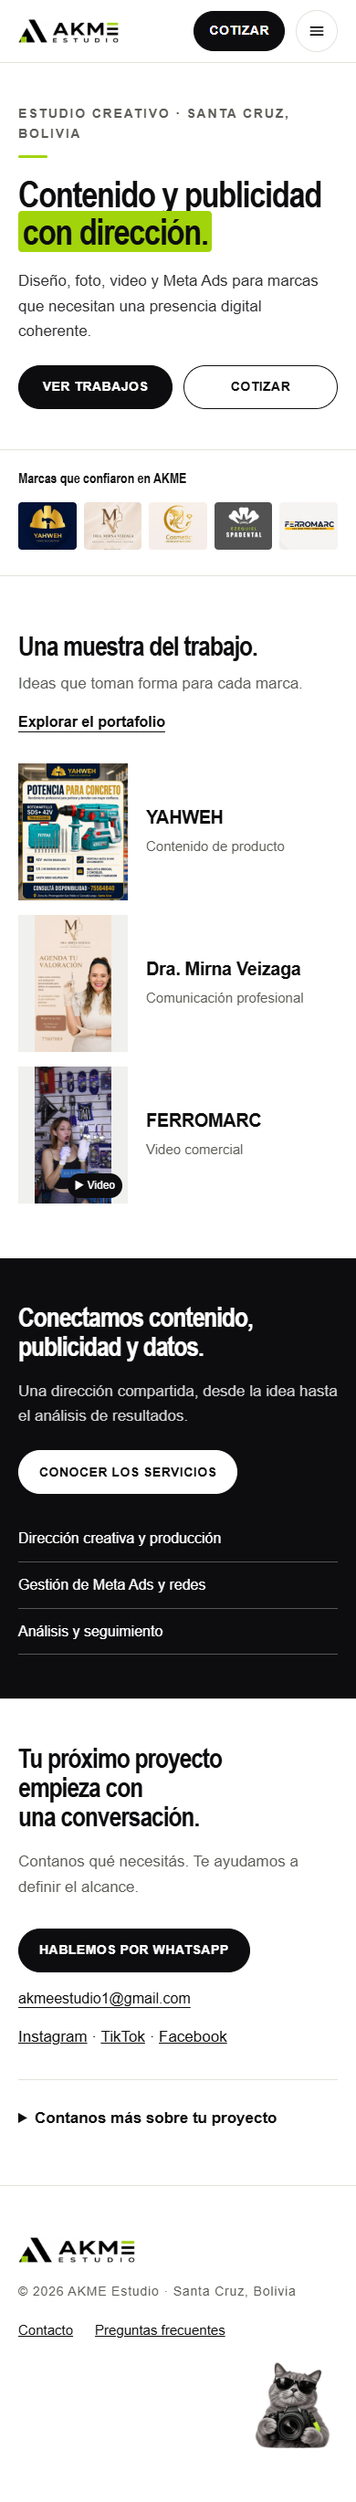
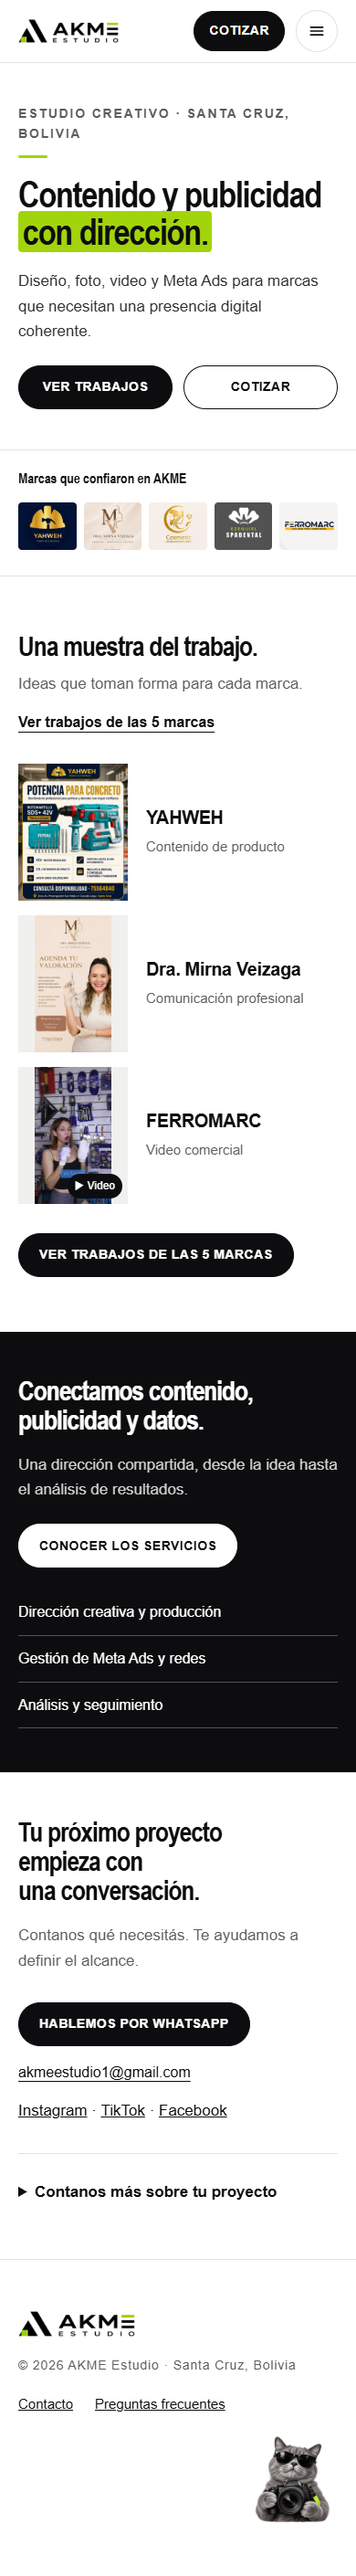
Aclara acceso y regreso del portafolio en móvil

diff --git a/akme/portafolio.html b/akme/portafolio.html
@@ -1,1 +1,1 @@
-<!doctype html><html lang="es"><head><meta charset="utf-8"><meta name="viewport" content="width=device-width, initial-scale=1"><title>Portafolio · AKME Estudio</title><meta name="description" content="Galerías de trabajos de YAHWEH, Dra. Mirna Veizaga, Cosmetic, Ezequiel SpaDental y FERROMARC."><meta name="theme-color" content="#ffffff"><meta property="og:title" content="Portafolio · AKME Estudio"><meta property="og:description" content="Galerías de trabajos de YAHWEH, Dra. Mirna Veizaga, Cosmetic, Ezequiel SpaDental y FERROMARC."><meta property="og:type" content="website"><link rel="icon" href="assets/isotipo.png"><link rel="preconnect" href="https://fonts.googleapis.com"><link rel="preconnect" href="https://fonts.gstatic.com" crossorigin><link rel="stylesheet" href="https://fonts.googleapis.com/css2?family=Archivo:ital,wdth,wght@0,62..125,100..900;1,62..125,100..900&family=Instrument+Serif:ital@1&display=swap"><link rel="stylesheet" href="base.css"><link rel="stylesheet" href="editorial.css"></head><body data-page="portafolio" class=""><a class="skip" href="#contenido">Saltar al contenido</a><header class="top"><div class="wrap"><a class="brand" href="index.html" aria-label="AKME Estudio, inicio"><img src="assets/logo.png" alt="AKME Estudio" width="700" height="165"></a><nav class="nav" aria-label="Navegación principal"><a class="link" href="index.html" >Inicio</a><a class="link" href="portafolio.html" aria-current="page">Portafolio</a><a class="link" href="servicios.html" >Servicios</a><a class="btn" href="planes.html#cotizador" >Cotizar</a><button class="menu-btn" id="menu-btn" type="button" aria-expanded="false" aria-controls="menu-panel" aria-label="Abrir menú"><svg class="bars" viewBox="0 0 24 24" aria-hidden="true"><path d="M4 7h16M4 12h16M4 17h16"/></svg><svg class="x" viewBox="0 0 24 24" aria-hidden="true"><path d="M6 6l12 12M18 6L6 18"/></svg></button></nav></div><div class="menu-panel" id="menu-panel"><ul><li><a href="index.html">Inicio</a></li><li><a href="portafolio.html">Portafolio</a></li><li><a href="servicios.html">Servicios</a></li><li><a href="planes.html#paquetes">Planes</a></li><li><a href="planes.html#cotizador">Cotizar</a></li><li><a href="servicios.html#faq">Preguntas frecuentes</a></li><li><a href="index.html#contacto">Contacto</a></li></ul></div></header><main id="contenido"><section class="page-intro"><div class="wrap"><p class="eyebrow">Portafolio de clientes</p><h1>Cada marca,<br>su propia dirección.</h1><p>Trabajos de producto, comunicación profesional y campañas en imagen y video.</p><nav class="brand-jumps" aria-label="Marcas del portafolio"><a href="#proyecto-yahweh">YAHWEH</a><a href="#proyecto-mirna">Dra. Mirna Veizaga</a><a href="#proyecto-cosmetic">Cosmetic Dental and Face Center</a><a href="#proyecto-spadental">Ezequiel SpaDental</a><a href="#proyecto-ferromarc">FERROMARC</a></nav></div></section><div class="wrap"><div id="brand-galleries"><p class="gallery-loading">Cargando trabajos…</p></div><noscript><p>Activá JavaScript para explorar las galerías. <a href="index.html#contacto">Contactanos</a> para conocer los proyectos.</p></noscript><section class="own-collection" aria-labelledby="own-title"><div class="own-head"><h3 id="own-title">Dentro de AKME</h3><p>Piezas de comunicación del estudio.</p></div><div class="own-grid"><article class="own-piece"><button type="button" data-own-images="assets/te-vigila.jpg" data-title="¿Tu competencia te vigila?" aria-label="Ampliar ¿Tu competencia te vigila?"><picture><source type="image/webp" srcset="assets/te-vigila.webp"><img src="assets/te-vigila.jpg" width="900" height="900" loading="lazy" decoding="async" alt="Arte: ¿Tu competencia te vigila? con un gato y una lupa"></picture></button><h4>¿Tu competencia te vigila?</h4></article><article class="own-piece"><button type="button" data-own-images="assets/conectar.jpg" data-title="Dejá de publicar por publicar" aria-label="Ampliar Dejá de publicar por publicar"><picture><source type="image/webp" srcset="assets/conectar.webp"><img src="assets/conectar.jpg" width="900" height="900" loading="lazy" decoding="async" alt="Arte: Dejá de publicar por publicar, empezá a crear para conectar"></picture></button><h4>Dejá de publicar por publicar</h4></article><article class="own-piece"><button type="button" data-own-images="assets/ayudarte.jpg" data-title="¿Cómo podemos ayudarte?" aria-label="Ampliar ¿Cómo podemos ayudarte?"><picture><source type="image/webp" srcset="assets/ayudarte.webp"><img src="assets/ayudarte.jpg" width="900" height="1125" loading="lazy" decoding="async" alt="Arte: ¿Cómo podemos ayudarte? con un teléfono vintage negro"></picture></button><h4>¿Cómo podemos ayudarte?</h4></article></div><details class="own-more"><summary>Ver más piezas de AKME</summary><div class="own-grid"><article class="own-piece"><button type="button" data-own-images="assets/paquetes-1.jpg,assets/paquetes-2.jpg,assets/paquetes-3.jpg,assets/paquetes-4.jpg,assets/paquetes-5.jpg,assets/paquetes-6.jpg,assets/paquetes-7.jpg" data-title="Catálogo de paquetes 2026" aria-label="Ampliar Catálogo de paquetes 2026"><picture><source type="image/webp" srcset="assets/paquetes-6.webp"><img src="assets/paquetes-6.jpg" width="900" height="1125" loading="lazy" decoding="async" alt="Pieza del Paquete PRO con laptop, celular y cámara Canon"></picture></button><h4>Catálogo de paquetes 2026</h4></article><article class="own-piece"><button type="button" data-own-images="assets/vende.jpg" data-title="Lo visual también marca la diferencia" aria-label="Ampliar Lo visual también marca la diferencia"><picture><source type="image/webp" srcset="assets/vende.webp"><img src="assets/vende.jpg" width="900" height="900" loading="lazy" decoding="async" alt="Collage editorial en blanco y negro de una fotógrafa con cámara Canon y la palabra VENDE"></picture></button><h4>Lo visual también marca la diferencia</h4></article><article class="own-piece"><button type="button" data-own-images="assets/contacto.jpg" data-title="Tarjeta de contacto" aria-label="Ampliar Tarjeta de contacto"><picture><source type="image/webp" srcset="assets/contacto.webp"><img src="assets/contacto.jpg" width="900" height="1125" loading="lazy" decoding="async" alt="Tarjeta de contacto de AKME en versión negativa con laptop y taza"></picture></button><h4>Tarjeta de contacto</h4></article></div></details></section></div><section class="page-contact" aria-label="Contacto"><div class="wrap"><div><h2>Hablemos de tu marca.</h2><p>Contanos qué necesitás y revisamos el alcance.</p></div><a class="btn" href="https://wa.me/59157385254" data-wa="Hola AKME, quiero conversar sobre mi marca.">Conversar por WhatsApp</a></div></section></main><footer class="foot"><div class="wrap"><a href="index.html" aria-label="Inicio AKME"><img src="assets/logo.png" alt="AKME Estudio" width="700" height="165" loading="lazy"></a><small>© 2026 AKME Estudio · Santa Cruz, Bolivia</small><img class="studio-cat" src="assets/akme-cat.webp" width="120" height="120" alt="" loading="lazy" decoding="async"><a href="index.html#contacto">Contacto</a><a href="servicios.html#faq">Preguntas frecuentes</a></div></footer><script src="site.js" defer></script><dialog class="gallery-viewer" id="gallery-viewer" aria-labelledby="gallery-title"><div class="gallery-toolbar"><h2 id="gallery-title"></h2><button type="button" class="gallery-close" aria-label="Cerrar galería">×</button></div><div class="gallery-media" id="gallery-media"></div><div class="gallery-bottomline"><p id="gallery-description"></p><div class="gallery-nav"><button type="button" id="gallery-prev" aria-label="Pieza anterior">‹</button><span id="gallery-count" aria-live="polite"></span><button type="button" id="gallery-next" aria-label="Pieza siguiente">›</button></div></div><div class="gallery-thumbs" id="gallery-thumbs" aria-label="Seleccionar pieza"></div></dialog><script type="module" src="galeria.mjs"></script></body></html>
+<!doctype html><html lang="es"><head><meta charset="utf-8"><meta name="viewport" content="width=device-width, initial-scale=1"><title>Portafolio · AKME Estudio</title><meta name="description" content="Galerías de trabajos de YAHWEH, Dra. Mirna Veizaga, Cosmetic, Ezequiel SpaDental y FERROMARC."><meta name="theme-color" content="#ffffff"><meta property="og:title" content="Portafolio · AKME Estudio"><meta property="og:description" content="Galerías de trabajos de YAHWEH, Dra. Mirna Veizaga, Cosmetic, Ezequiel SpaDental y FERROMARC."><meta property="og:type" content="website"><link rel="icon" href="assets/isotipo.png"><link rel="preconnect" href="https://fonts.googleapis.com"><link rel="preconnect" href="https://fonts.gstatic.com" crossorigin><link rel="stylesheet" href="https://fonts.googleapis.com/css2?family=Archivo:ital,wdth,wght@0,62..125,100..900;1,62..125,100..900&family=Instrument+Serif:ital@1&display=swap"><link rel="stylesheet" href="base.css"><link rel="stylesheet" href="editorial.css"></head><body data-page="portafolio" class=""><a class="skip" href="#contenido">Saltar al contenido</a><header class="top"><div class="wrap"><a class="brand" href="index.html" aria-label="AKME Estudio, inicio"><img src="assets/logo.png" alt="AKME Estudio" width="700" height="165"></a><nav class="nav" aria-label="Navegación principal"><a class="link" href="index.html" >Inicio</a><a class="link" href="portafolio.html" aria-current="page">Portafolio</a><a class="link" href="servicios.html" >Servicios</a><a class="btn" href="planes.html#cotizador" >Cotizar</a><button class="menu-btn" id="menu-btn" type="button" aria-expanded="false" aria-controls="menu-panel" aria-label="Abrir menú"><svg class="bars" viewBox="0 0 24 24" aria-hidden="true"><path d="M4 7h16M4 12h16M4 17h16"/></svg><svg class="x" viewBox="0 0 24 24" aria-hidden="true"><path d="M6 6l12 12M18 6L6 18"/></svg></button></nav></div><div class="menu-panel" id="menu-panel"><ul><li><a href="index.html">Inicio</a></li><li><a href="portafolio.html">Portafolio</a></li><li><a href="servicios.html">Servicios</a></li><li><a href="planes.html#paquetes">Planes</a></li><li><a href="planes.html#cotizador">Cotizar</a></li><li><a href="servicios.html#faq">Preguntas frecuentes</a></li><li><a href="index.html#contacto">Contacto</a></li></ul></div></header><main id="contenido"><div class="wrap portfolio-return"><a class="text-link" href="index.html">← Volver al inicio</a></div><section class="page-intro"><div class="wrap"><p class="eyebrow">Portafolio de clientes</p><h1>Cada marca,<br>su propia dirección.</h1><p>Trabajos de producto, comunicación profesional y campañas en imagen y video.</p><nav class="brand-jumps" aria-label="Marcas del portafolio"><a href="#proyecto-yahweh">YAHWEH</a><a href="#proyecto-mirna">Dra. Mirna Veizaga</a><a href="#proyecto-cosmetic">Cosmetic Dental and Face Center</a><a href="#proyecto-spadental">Ezequiel SpaDental</a><a href="#proyecto-ferromarc">FERROMARC</a></nav></div></section><div class="wrap"><div id="brand-galleries"><p class="gallery-loading">Cargando trabajos…</p></div><noscript><p>Activá JavaScript para explorar las galerías. <a href="index.html#contacto">Contactanos</a> para conocer los proyectos.</p></noscript><section class="own-collection" aria-labelledby="own-title"><div class="own-head"><h3 id="own-title">Dentro de AKME</h3><p>Piezas de comunicación del estudio.</p></div><div class="own-grid"><article class="own-piece"><button type="button" data-own-images="assets/te-vigila.jpg" data-title="¿Tu competencia te vigila?" aria-label="Ampliar ¿Tu competencia te vigila?"><picture><source type="image/webp" srcset="assets/te-vigila.webp"><img src="assets/te-vigila.jpg" width="900" height="900" loading="lazy" decoding="async" alt="Arte: ¿Tu competencia te vigila? con un gato y una lupa"></picture></button><h4>¿Tu competencia te vigila?</h4></article><article class="own-piece"><button type="button" data-own-images="assets/conectar.jpg" data-title="Dejá de publicar por publicar" aria-label="Ampliar Dejá de publicar por publicar"><picture><source type="image/webp" srcset="assets/conectar.webp"><img src="assets/conectar.jpg" width="900" height="900" loading="lazy" decoding="async" alt="Arte: Dejá de publicar por publicar, empezá a crear para conectar"></picture></button><h4>Dejá de publicar por publicar</h4></article><article class="own-piece"><button type="button" data-own-images="assets/ayudarte.jpg" data-title="¿Cómo podemos ayudarte?" aria-label="Ampliar ¿Cómo podemos ayudarte?"><picture><source type="image/webp" srcset="assets/ayudarte.webp"><img src="assets/ayudarte.jpg" width="900" height="1125" loading="lazy" decoding="async" alt="Arte: ¿Cómo podemos ayudarte? con un teléfono vintage negro"></picture></button><h4>¿Cómo podemos ayudarte?</h4></article></div><details class="own-more"><summary>Ver más piezas de AKME</summary><div class="own-grid"><article class="own-piece"><button type="button" data-own-images="assets/paquetes-1.jpg,assets/paquetes-2.jpg,assets/paquetes-3.jpg,assets/paquetes-4.jpg,assets/paquetes-5.jpg,assets/paquetes-6.jpg,assets/paquetes-7.jpg" data-title="Catálogo de paquetes 2026" aria-label="Ampliar Catálogo de paquetes 2026"><picture><source type="image/webp" srcset="assets/paquetes-6.webp"><img src="assets/paquetes-6.jpg" width="900" height="1125" loading="lazy" decoding="async" alt="Pieza del Paquete PRO con laptop, celular y cámara Canon"></picture></button><h4>Catálogo de paquetes 2026</h4></article><article class="own-piece"><button type="button" data-own-images="assets/vende.jpg" data-title="Lo visual también marca la diferencia" aria-label="Ampliar Lo visual también marca la diferencia"><picture><source type="image/webp" srcset="assets/vende.webp"><img src="assets/vende.jpg" width="900" height="900" loading="lazy" decoding="async" alt="Collage editorial en blanco y negro de una fotógrafa con cámara Canon y la palabra VENDE"></picture></button><h4>Lo visual también marca la diferencia</h4></article><article class="own-piece"><button type="button" data-own-images="assets/contacto.jpg" data-title="Tarjeta de contacto" aria-label="Ampliar Tarjeta de contacto"><picture><source type="image/webp" srcset="assets/contacto.webp"><img src="assets/contacto.jpg" width="900" height="1125" loading="lazy" decoding="async" alt="Tarjeta de contacto de AKME en versión negativa con laptop y taza"></picture></button><h4>Tarjeta de contacto</h4></article></div></details></section></div><section class="page-contact" aria-label="Contacto"><div class="wrap"><div><h2>Hablemos de tu marca.</h2><p>Contanos qué necesitás y revisamos el alcance.</p></div><a class="btn" href="https://wa.me/59157385254" data-wa="Hola AKME, quiero conversar sobre mi marca.">Conversar por WhatsApp</a></div></section></main><footer class="foot"><div class="wrap"><a href="index.html" aria-label="Inicio AKME"><img src="assets/logo.png" alt="AKME Estudio" width="700" height="165" loading="lazy"></a><small>© 2026 AKME Estudio · Santa Cruz, Bolivia</small><img class="studio-cat" src="assets/akme-cat.webp" width="120" height="120" alt="" loading="lazy" decoding="async"><a href="index.html#contacto">Contacto</a><a href="servicios.html#faq">Preguntas frecuentes</a></div></footer><script src="site.js" defer></script><dialog class="gallery-viewer" id="gallery-viewer" aria-labelledby="gallery-title"><div class="gallery-toolbar"><h2 id="gallery-title"></h2><button type="button" class="gallery-close" aria-label="Cerrar galería">Cerrar <span aria-hidden="true">×</span></button></div><div class="gallery-media" id="gallery-media"></div><div class="gallery-bottomline"><p id="gallery-description"></p><div class="gallery-nav"><button type="button" id="gallery-prev" aria-label="Pieza anterior">‹</button><span id="gallery-count" aria-live="polite"></span><button type="button" id="gallery-next" aria-label="Pieza siguiente">›</button></div></div><div class="gallery-thumbs" id="gallery-thumbs" aria-label="Seleccionar pieza"></div></dialog><script type="module" src="galeria.mjs"></script></body></html>

diff --git a/akme/index.html b/akme/index.html
@@ -1,4 +1,4 @@
-<!doctype html><html lang="es"><head><meta charset="utf-8"><meta name="viewport" content="width=device-width, initial-scale=1"><title>AKME Estudio · Contenido, publicidad y dirección</title><meta name="description" content="Diseño, foto, video y Meta Ads para marcas desde Santa Cruz, Bolivia."><meta name="theme-color" content="#ffffff"><meta property="og:title" content="AKME Estudio · Contenido, publicidad y dirección"><meta property="og:description" content="Diseño, foto, video y Meta Ads para marcas desde Santa Cruz, Bolivia."><meta property="og:type" content="website"><link rel="icon" href="assets/isotipo.png"><link rel="preconnect" href="https://fonts.googleapis.com"><link rel="preconnect" href="https://fonts.gstatic.com" crossorigin><link rel="stylesheet" href="https://fonts.googleapis.com/css2?family=Archivo:ital,wdth,wght@0,62..125,100..900;1,62..125,100..900&family=Instrument+Serif:ital@1&display=swap"><link rel="stylesheet" href="base.css"><link rel="stylesheet" href="editorial.css"></head><body data-page="inicio" class=""><a class="skip" href="#contenido">Saltar al contenido</a><header class="top"><div class="wrap"><a class="brand" href="index.html" aria-label="AKME Estudio, inicio"><img src="assets/logo.png" alt="AKME Estudio" width="700" height="165"></a><nav class="nav" aria-label="Navegación principal"><a class="link" href="index.html" aria-current="page">Inicio</a><a class="link" href="portafolio.html" >Portafolio</a><a class="link" href="servicios.html" >Servicios</a><a class="btn" href="planes.html#cotizador" >Cotizar</a><button class="menu-btn" id="menu-btn" type="button" aria-expanded="false" aria-controls="menu-panel" aria-label="Abrir menú"><svg class="bars" viewBox="0 0 24 24" aria-hidden="true"><path d="M4 7h16M4 12h16M4 17h16"/></svg><svg class="x" viewBox="0 0 24 24" aria-hidden="true"><path d="M6 6l12 12M18 6L6 18"/></svg></button></nav></div><div class="menu-panel" id="menu-panel"><ul><li><a href="index.html">Inicio</a></li><li><a href="portafolio.html">Portafolio</a></li><li><a href="servicios.html">Servicios</a></li><li><a href="planes.html#paquetes">Planes</a></li><li><a href="planes.html#cotizador">Cotizar</a></li><li><a href="servicios.html#faq">Preguntas frecuentes</a></li><li><a href="index.html#contacto">Contacto</a></li></ul></div></header><main id="contenido"><section class="hero" aria-labelledby="hero-title"><div class="wrap"><div class="hero-copy"><p class="eyebrow">Estudio creativo · Santa Cruz, Bolivia</p><h1 id="hero-title">Contenido y publicidad <span class="hl">con dirección.</span></h1><p class="desc">Diseño, foto, video y Meta Ads para marcas que necesitan una presencia digital coherente.</p><div class="hero-cta"><a class="btn" href="portafolio.html">Ver trabajos</a><a class="btn ghost" href="planes.html#cotizador">Cotizar</a></div></div><figure class="hero-figure"><img src="assets/conectar.webp" width="900" height="900" fetchpriority="high" alt="Pieza de AKME: empezá a crear para conectar"></figure></div></section><section class="brand-strip" id="marcas" aria-labelledby="marcas-title"><div class="wrap"><h2 id="marcas-title">Marcas que confiaron en AKME</h2><ul class="brand-logos"><li><a href="portafolio.html#proyecto-yahweh"><span class="brand-crop yahweh"><img src="assets/clientes/yahweh-marca.webp" alt="" loading="lazy"></span><span>YAHWEH</span><span class="sr">Ver trabajos de YAHWEH</span></a></li><li><a href="portafolio.html#proyecto-mirna"><span class="brand-crop mirna"><img src="assets/clientes/mirna-marca.webp" alt="" loading="lazy"></span><span>Dra. Mirna Veizaga</span><span class="sr">Ver trabajos de Dra. Mirna Veizaga</span></a></li><li><a href="portafolio.html#proyecto-cosmetic"><span class="brand-crop cosmetic"><img src="assets/clientes/cosmetic-marca.webp" alt="" loading="lazy"></span><span>Cosmetic Dental and Face Center</span><span class="sr">Ver trabajos de Cosmetic Dental and Face Center</span></a></li><li><a href="portafolio.html#proyecto-spadental"><span class="brand-crop spadental"><img src="assets/clientes/spadental-marca.webp" alt="" loading="lazy"></span><span>Ezequiel SpaDental</span><span class="sr">Ver trabajos de Ezequiel SpaDental</span></a></li><li><a href="portafolio.html#proyecto-ferromarc"><span class="brand-crop ferromarc"><img src="assets/clientes/ferromarc-marca.webp" alt="" loading="lazy"></span><span>FERROMARC</span><span class="sr">Ver trabajos de FERROMARC</span></a></li></ul></div></section><section class="section" aria-labelledby="highlights-title"><div class="wrap"><div class="section-topline"><div><h2 id="highlights-title">Una muestra del trabajo.</h2><p>Ideas que toman forma para cada marca.</p></div><a class="text-link" href="portafolio.html">Explorar el portafolio</a></div><div class="highlights"><a class="highlight" href="portafolio.html#proyecto-yahweh"><figure><span class="highlight-media"><img src="assets/clientes/yahweh-rotomartillo.webp" width="720" height="900" loading="lazy" decoding="async" alt="YAHWEH: Contenido de producto"></span><figcaption><h3>YAHWEH</h3><p>Contenido de producto</p></figcaption></figure></a><a class="highlight" href="portafolio.html#proyecto-mirna"><figure><span class="highlight-media"><img src="assets/clientes/mirna-valoracion.webp" width="720" height="900" loading="lazy" decoding="async" alt="Dra. Mirna Veizaga: Comunicación profesional"></span><figcaption><h3>Dra. Mirna Veizaga</h3><p>Comunicación profesional</p></figcaption></figure></a><a class="highlight" href="portafolio.html#proyecto-ferromarc"><figure><span class="highlight-media"><img src="assets/clientes/ferromarc-poster.webp" width="720" height="900" loading="lazy" decoding="async" alt="FERROMARC: Video comercial"><span class="video-mark">▶ Video</span></span><figcaption><h3>FERROMARC</h3><p>Video comercial</p></figcaption></figure></a></div></div></section><section class="service-summary" aria-labelledby="summary-title"><div class="wrap"><div><h2 id="summary-title">Conectamos contenido, publicidad y datos.</h2><p>Una dirección compartida, desde la idea hasta el análisis de resultados.</p><a class="btn" href="servicios.html">Conocer los servicios</a></div><ul><li>Dirección creativa y producción</li><li>Gestión de Meta Ads y redes</li><li>Análisis y seguimiento</li></ul></div></section><section class="contact-compact" id="contacto" aria-labelledby="contacto-title"><div class="wrap"><div><h2 id="contacto-title">Tu próximo proyecto empieza con una conversación.</h2><p>Contanos qué necesitás. Te ayudamos a definir el alcance.</p></div><div class="contact-links"><a class="btn" href="https://wa.me/59157385254" data-wa="Hola AKME, quiero conversar sobre mi marca.">Hablemos por WhatsApp</a><a id="mail" href="mailto:akmeestudio1@gmail.com">akmeestudio1@gmail.com</a><div class="social-links"><a href="https://www.instagram.com/akmestudio.bo/" target="_blank" rel="noopener">Instagram</a> · <a href="https://www.tiktok.com/@akme.estudio" target="_blank" rel="noopener">TikTok</a> · <a href="https://www.facebook.com/profile.php?id=61591833067122" target="_blank" rel="noopener">Facebook</a></div></div><details class="brief-disclosure"><summary>Contanos más sobre tu proyecto</summary><form class="brief reveal" id="brief" novalidate="">
+<!doctype html><html lang="es"><head><meta charset="utf-8"><meta name="viewport" content="width=device-width, initial-scale=1"><title>AKME Estudio · Contenido, publicidad y dirección</title><meta name="description" content="Diseño, foto, video y Meta Ads para marcas desde Santa Cruz, Bolivia."><meta name="theme-color" content="#ffffff"><meta property="og:title" content="AKME Estudio · Contenido, publicidad y dirección"><meta property="og:description" content="Diseño, foto, video y Meta Ads para marcas desde Santa Cruz, Bolivia."><meta property="og:type" content="website"><link rel="icon" href="assets/isotipo.png"><link rel="preconnect" href="https://fonts.googleapis.com"><link rel="preconnect" href="https://fonts.gstatic.com" crossorigin><link rel="stylesheet" href="https://fonts.googleapis.com/css2?family=Archivo:ital,wdth,wght@0,62..125,100..900;1,62..125,100..900&family=Instrument+Serif:ital@1&display=swap"><link rel="stylesheet" href="base.css"><link rel="stylesheet" href="editorial.css"></head><body data-page="inicio" class=""><a class="skip" href="#contenido">Saltar al contenido</a><header class="top"><div class="wrap"><a class="brand" href="index.html" aria-label="AKME Estudio, inicio"><img src="assets/logo.png" alt="AKME Estudio" width="700" height="165"></a><nav class="nav" aria-label="Navegación principal"><a class="link" href="index.html" aria-current="page">Inicio</a><a class="link" href="portafolio.html" >Portafolio</a><a class="link" href="servicios.html" >Servicios</a><a class="btn" href="planes.html#cotizador" >Cotizar</a><button class="menu-btn" id="menu-btn" type="button" aria-expanded="false" aria-controls="menu-panel" aria-label="Abrir menú"><svg class="bars" viewBox="0 0 24 24" aria-hidden="true"><path d="M4 7h16M4 12h16M4 17h16"/></svg><svg class="x" viewBox="0 0 24 24" aria-hidden="true"><path d="M6 6l12 12M18 6L6 18"/></svg></button></nav></div><div class="menu-panel" id="menu-panel"><ul><li><a href="index.html">Inicio</a></li><li><a href="portafolio.html">Portafolio</a></li><li><a href="servicios.html">Servicios</a></li><li><a href="planes.html#paquetes">Planes</a></li><li><a href="planes.html#cotizador">Cotizar</a></li><li><a href="servicios.html#faq">Preguntas frecuentes</a></li><li><a href="index.html#contacto">Contacto</a></li></ul></div></header><main id="contenido"><section class="hero" aria-labelledby="hero-title"><div class="wrap"><div class="hero-copy"><p class="eyebrow">Estudio creativo · Santa Cruz, Bolivia</p><h1 id="hero-title">Contenido y publicidad <span class="hl">con dirección.</span></h1><p class="desc">Diseño, foto, video y Meta Ads para marcas que necesitan una presencia digital coherente.</p><div class="hero-cta"><a class="btn" href="portafolio.html">Ver trabajos</a><a class="btn ghost" href="planes.html#cotizador">Cotizar</a></div></div><figure class="hero-figure"><img src="assets/conectar.webp" width="900" height="900" fetchpriority="high" alt="Pieza de AKME: empezá a crear para conectar"></figure></div></section><section class="brand-strip" id="marcas" aria-labelledby="marcas-title"><div class="wrap"><h2 id="marcas-title">Marcas que confiaron en AKME</h2><ul class="brand-logos"><li><a href="portafolio.html#proyecto-yahweh"><span class="brand-crop yahweh"><img src="assets/clientes/yahweh-marca.webp" alt="" loading="lazy"></span><span>YAHWEH</span><span class="sr">Ver trabajos de YAHWEH</span></a></li><li><a href="portafolio.html#proyecto-mirna"><span class="brand-crop mirna"><img src="assets/clientes/mirna-marca.webp" alt="" loading="lazy"></span><span>Dra. Mirna Veizaga</span><span class="sr">Ver trabajos de Dra. Mirna Veizaga</span></a></li><li><a href="portafolio.html#proyecto-cosmetic"><span class="brand-crop cosmetic"><img src="assets/clientes/cosmetic-marca.webp" alt="" loading="lazy"></span><span>Cosmetic Dental and Face Center</span><span class="sr">Ver trabajos de Cosmetic Dental and Face Center</span></a></li><li><a href="portafolio.html#proyecto-spadental"><span class="brand-crop spadental"><img src="assets/clientes/spadental-marca.webp" alt="" loading="lazy"></span><span>Ezequiel SpaDental</span><span class="sr">Ver trabajos de Ezequiel SpaDental</span></a></li><li><a href="portafolio.html#proyecto-ferromarc"><span class="brand-crop ferromarc"><img src="assets/clientes/ferromarc-marca.webp" alt="" loading="lazy"></span><span>FERROMARC</span><span class="sr">Ver trabajos de FERROMARC</span></a></li></ul></div></section><section class="section" aria-labelledby="highlights-title"><div class="wrap"><div class="section-topline"><div><h2 id="highlights-title">Una muestra del trabajo.</h2><p>Ideas que toman forma para cada marca.</p></div><a class="text-link" href="portafolio.html">Ver trabajos de las 5 marcas</a></div><div class="highlights"><a class="highlight" href="portafolio.html#proyecto-yahweh"><figure><span class="highlight-media"><img src="assets/clientes/yahweh-rotomartillo.webp" width="720" height="900" loading="lazy" decoding="async" alt="YAHWEH: Contenido de producto"></span><figcaption><h3>YAHWEH</h3><p>Contenido de producto</p></figcaption></figure></a><a class="highlight" href="portafolio.html#proyecto-mirna"><figure><span class="highlight-media"><img src="assets/clientes/mirna-valoracion.webp" width="720" height="900" loading="lazy" decoding="async" alt="Dra. Mirna Veizaga: Comunicación profesional"></span><figcaption><h3>Dra. Mirna Veizaga</h3><p>Comunicación profesional</p></figcaption></figure></a><a class="highlight" href="portafolio.html#proyecto-ferromarc"><figure><span class="highlight-media"><img src="assets/clientes/ferromarc-poster.webp" width="720" height="900" loading="lazy" decoding="async" alt="FERROMARC: Video comercial"><span class="video-mark">▶ Video</span></span><figcaption><h3>FERROMARC</h3><p>Video comercial</p></figcaption></figure></a></div><p class="portfolio-discovery"><a class="btn" href="portafolio.html">Ver trabajos de las 5 marcas</a></p></div></section><section class="service-summary" aria-labelledby="summary-title"><div class="wrap"><div><h2 id="summary-title">Conectamos contenido, publicidad y datos.</h2><p>Una dirección compartida, desde la idea hasta el análisis de resultados.</p><a class="btn" href="servicios.html">Conocer los servicios</a></div><ul><li>Dirección creativa y producción</li><li>Gestión de Meta Ads y redes</li><li>Análisis y seguimiento</li></ul></div></section><section class="contact-compact" id="contacto" aria-labelledby="contacto-title"><div class="wrap"><div><h2 id="contacto-title">Tu próximo proyecto empieza con una conversación.</h2><p>Contanos qué necesitás. Te ayudamos a definir el alcance.</p></div><div class="contact-links"><a class="btn" href="https://wa.me/59157385254" data-wa="Hola AKME, quiero conversar sobre mi marca.">Hablemos por WhatsApp</a><a id="mail" href="mailto:akmeestudio1@gmail.com">akmeestudio1@gmail.com</a><div class="social-links"><a href="https://www.instagram.com/akmestudio.bo/" target="_blank" rel="noopener">Instagram</a> · <a href="https://www.tiktok.com/@akme.estudio" target="_blank" rel="noopener">TikTok</a> · <a href="https://www.facebook.com/profile.php?id=61591833067122" target="_blank" rel="noopener">Facebook</a></div></div><details class="brief-disclosure"><summary>Contanos más sobre tu proyecto</summary><form class="brief reveal" id="brief" novalidate="">
           <h3>¿Preferís contarnos más antes?<span>Completá estos datos y armamos el mensaje por vos.</span></h3>
           <div class="field"><label for="f-nombre">Tu nombre</label><input id="f-nombre" name="nombre" autocomplete="name" required="" aria-describedby="f-err"></div>
           <div class="field"><label for="f-marca">Marca o negocio</label><input id="f-marca" name="marca" autocomplete="organization"></div>

diff --git a/akme/editorial.css b/akme/editorial.css
@@ -21,3 +21,9 @@ html{scroll-padding-top:96px}body{font-size:17px;line-height:1.6}.section{paddin
 @media(max-width:760px){.team-grid{grid-template-columns:1fr;gap:40px;max-width:440px}.team-grid h3{font-size:1.5rem}}
 .foot img.studio-cat{width:120px;height:120px;object-fit:contain;order:5}.foot .wrap{align-items:center}.foot a{font-size:.9375rem}
 @media(max-width:760px){.foot img.studio-cat{width:100px;height:100px;margin-left:auto}.foot .wrap{gap:20px 24px}}
+
+/* Explicit routes for visitors browsing the portfolio on mobile. */
+.portfolio-discovery{margin:32px 0 0}.portfolio-return{padding-top:24px}.portfolio-return a{display:inline-flex;min-height:44px;align-items:center}
+
+.gallery-toolbar{position:sticky;top:0;z-index:2;background:white}.gallery-close{width:auto;min-width:88px;padding:0 12px;border-radius:22px;font-size:.9375rem;font-weight:600}.gallery-close span{font-size:1.25rem;margin-left:6px}
+@media(max-width:760px){.gallery-toolbar{padding-top:max(12px,env(safe-area-inset-top));padding-left:max(16px,env(safe-area-inset-left));padding-right:max(16px,env(safe-area-inset-right))}.gallery-thumbs{padding-bottom:max(16px,env(safe-area-inset-bottom))}}
